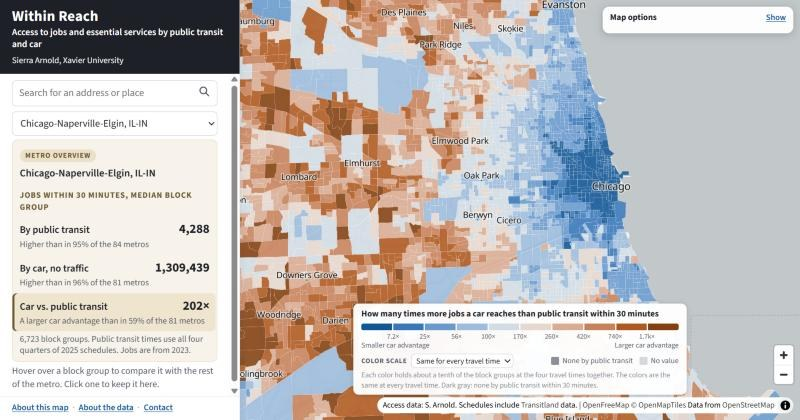
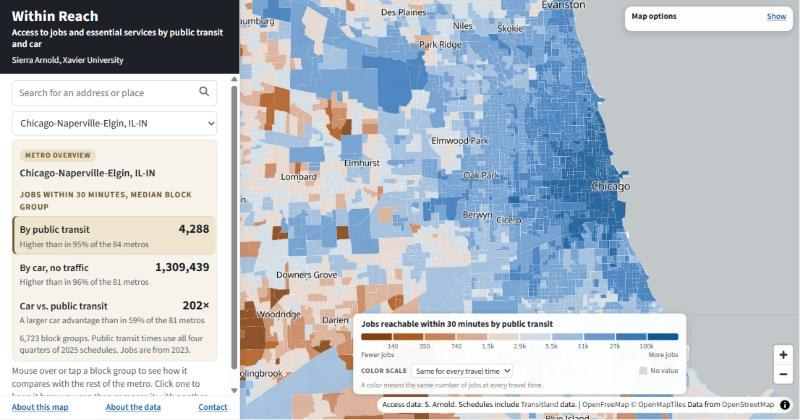
Open on public transit; compare two block groups; a short glossary
- The page opens on jobs by public transit instead of the car vs.
  public transit ratio.
- Compare two block groups side by side: keep one, choose "Compare with
  another block group", then click or search for a second. The link
  carries both.
- About the data has a short glossary and a citation.
- The national circles have a dark outline; the legend notes are
  shorter; the hints say "mouse over or tap".
- A new link-preview image of the new opening view.

diff --git a/app.js b/app.js
@@ -32,10 +32,13 @@
 
   const S = {
     meta: null, ix: null, layers: [JOBS], layer: 'j', tau: 30,
-    bySlug: new Map(), mode: 'r', scale: 'shared', viewBreaks: null,
+    // The page opens on the counts by public transit (Sierra, 2026-11-12: "ok we can make default to transit so
+    // it doesnt jump to the ratio which is confusion"; until then it opened on car vs. public transit).
+    bySlug: new Map(), mode: 't', scale: 'shared', viewBreaks: null,
     loaded: new Map(), pending: new Map(), features: [], index: new Map(), tick: 0,
     hover: null, hoverProps: null, pinned: null, pinnedProps: null, hoverMetro: null,
     hold: null, onMap: false, filter: { iq: 0, zv: 0 },
+    cmpId: null, cmpProps: null, picking: false, pendingPin: null, pendingCmp: null,   // comparing two block groups
   };
 
   const $ = (sel) => document.querySelector(sel);
@@ -187,18 +190,19 @@
     });
     return out;
   }
-  const HASH_ORDER = ['view', 'layer', 'mode', 'time', 'colors', 'income', 'car', 'bg'];
+  const HASH_ORDER = ['view', 'layer', 'mode', 'time', 'colors', 'income', 'car', 'bg', 'vs'];
   function writeHash() {
     if (!S.ix) return;
     const h = readHash();
     const set = (key, val, def) => { if (val === def || val === null || val === undefined) delete h[key]; else h[key] = String(val); };
     set('layer', S.layer, 'j');
-    set('mode', S.mode, 'r');
+    set('mode', S.mode, 't');
     set('time', S.tau, S.ix.tau_default);
     set('colors', S.scale, 'shared');
     set('income', S.filter.iq, 0);
     set('car', S.filter.zv, 0);
     set('bg', S.pinnedProps ? S.pinnedProps.g : null, null);
+    set('vs', S.cmpProps ? S.cmpProps.g : null, null);
     const rank = (key) => (HASH_ORDER.includes(key) ? HASH_ORDER.indexOf(key) : 99);
     const str = Object.keys(h).sort((a, b) => rank(a) - rank(b)).map((key) => `${key}=${h[key]}`).join('&');
     history.replaceState(history.state, '', `${location.pathname}${location.search}${str ? `#${str}` : ''}`);
@@ -212,6 +216,7 @@
     if ([1, 2, 3, 4].includes(Number(h.income))) { S.filter.iq = Number(h.income); $('#f-income').value = h.income; }
     if ([10, 20, 30, 40].includes(Number(h.car))) { S.filter.zv = Number(h.car); $('#f-car').value = h.car; }
     if (/^\d{12}$/.test(h.bg || '')) S.pendingPin = h.bg;
+    if (/^\d{12}$/.test(h.vs || '') && h.vs !== h.bg) S.pendingCmp = h.vs;
     document.querySelectorAll('[data-layer]').forEach((x) => x.setAttribute('aria-pressed', String(x.dataset.layer === S.layer)));
     $('#mode-select').value = S.mode;
     $('#f-income').classList.toggle('active', S.filter.iq > 0);
@@ -257,22 +262,21 @@
     const cols = classColors();
     const n = cols.length;
     const zero = ((L.zero || {})[scaleKey()] || {})[S.mode];   // none is its own class (build_layer4_times.py)
-    const over = shared ? 'at the four travel times together' : `in all ${S.meta.counts.metros_mapped} metros`;
+    // Short notes, in plain words (2026-11-12); About the data explains the classes.
     let note;
     if (viewOn) {
-      note = S.viewBreaks ? 'Each color holds about a tenth of the block groups on screen.'
-        : 'Zoom in to a metro to rescale the colors to the screen.';
+      note = S.viewBreaks ? 'Colors fit to the block groups on screen.' : 'Zoom in to a metro to fit the colors to the screen.';
+    } else if (shared) {
+      note = S.mode === 'r' ? 'A color means the same car advantage at every travel time.'
+        : `A color means the same number of ${L.noun} at every travel time.`;
+      if (zero) note = `The first color is none. ${note}`;
     } else if (zero) {
-      note = breaks().length === 1
-        ? `The first color is none within ${S.tau} minutes, the second one or more.`
-        : `The first color is none within ${S.tau} minutes; the others split the rest into groups of about equal size.`;
-    } else if (S.mode === 'r' && !jobs) {
-      note = `Each color holds about a tenth of the block groups that reach at least one by public transit, ${over}.`;
+      note = breaks().length === 1 ? 'The first color is none, the second one or more.'
+        : 'The first color is none; the others split the rest into groups of equal size.';
     } else {
-      note = `Each color holds about a tenth of the block groups ${over}.`;
+      note = `Colors fit to ${S.tau} minutes: each holds about a tenth of the block groups.`;
     }
-    if (shared) note += ' The colors are the same at every travel time.';
-    if (S.mode === 'r') note += ` Dark gray: none by public transit within ${S.tau} minutes.`;
+    if (S.mode === 'r') note += ' Dark gray: none by public transit.';
     if (filterOn()) note += ' Block groups outside the filter are faded.';
     const [low, high] = ends(S.mode);
     $('#legend').innerHTML = `
@@ -395,6 +399,9 @@
         <div class="kicker">${esc(m.name)}</div>
         ${filterOn() && !matches(p) ? '<div class="out-note">Outside the filter</div>' : ''}
         ${isPinned ? '<button type="button" class="unpin" aria-label="Clear the selected block group">&times;</button>' : ''}
+        ${isPinned ? (S.picking
+          ? '<div class="cmp-note">Now click another block group, or search for one, to compare. <button type="button" class="link cmp-cancel">Cancel</button></div>'
+          : '<button type="button" class="link cmp-start">Compare with another block group</button>') : ''}
       </div>
       <div class="section-title">${L.label} within ${S.tau} minutes</div>
       ${jobsRow('t', 'By public transit', t, p[k('tp')], inMetro, 'No public transit value for this block group.')}
@@ -431,7 +438,7 @@
   function summaryHTML() {
     if (!S.meta || !S.ix) return '';
     const m = S.hoverMetro || metroAtCenter();
-    if (!m) return '<p class="hint">Choose a metro or search for an address, then hover over a neighborhood.</p>';
+    if (!m) return '<p class="hint">Choose a metro or search for an address, then mouse over or tap a neighborhood.</p>';
     if (!m.mapped) {
       return `<div class="card card-metro">
         <div class="card-head"><span class="level level-metro">Metro overview</span>
@@ -479,12 +486,123 @@
       <p class="facts">${fmt.format(m.n_bg)} block groups. Public transit times use ${q === 4 ? 'all four' : q} quarter${q === 1 ? '' : 's'}
       of ${m.year} schedules. ${asOf}</p>
     </div>
-    <p class="hint">Hover over a block group to compare it with the rest of the metro. Click one to keep it here.</p>`;
+    <p class="hint">Mouse over or tap a block group to see how it compares with the rest of the metro. Click one to keep it
+    here; you can then compare it with another.</p>`;
+  }
+
+  // ---------- comparing two block groups (Sierra, 2026-11-12: "yes add comparisons") ----------
+  // A is the kept block group; "Compare with another block group" makes the next click (or search) B.
+  function placeName(p) {
+    const g = String(p.g);
+    return `Block group ${g.slice(11)}, tract ${tractLabel(g.slice(5, 11))}, ${esc(S.meta.states[g.slice(0, 2)] || '')}`;
+  }
+  function compareHTML(a, b) {
+    const L = lay();
+    const jobs = isJobs();
+    const metroOf = (p) => esc(shortName((S.bySlug.get(p.m) || { name: '' }).name));
+    const num = (v) => (has(v) ? fmt.format(v) : '–');
+    // each block group's rank in its own metro; none for a zero (the value says it), "lowest" at the bottom
+    const rank = (pct, v) => (!has(pct) || v === 0 ? '' : pct === 0 ? 'lowest in its metro' : `higher than ${pct}%`);
+    const ratio = (p) => {
+      const r = p[k('r')];
+      if (has(r)) return `${ratioText(r)}&times;`;
+      return p[k('t')] === 0 && has(p[k('c')]) && p[k('c')] > 0 ? 'None by public transit' : '–';
+    };
+    const near = (p) => {
+      const n = p[k('n')];
+      if (!has(n)) return 'None within 90 minutes';
+      return n === 0 ? 'In the block group' : `${n} minutes`;
+    };
+    const money = (v) => (has(v) ? `$${fmt.format(v)}` : '–');
+    const share = (v) => (has(v) ? `${trimZero(v.toFixed(1))}%` : '–');
+    const row = (label, va, vb, sa = '', sb = '', sel = false) => `<div class="cmp-row${sel ? ' selected' : ''}">
+        <span class="cmp-label">${label}</span>
+        <span class="cmp-v">${va}${sa ? `<small>${sa}</small>` : ''}</span>
+        <span class="cmp-v">${vb}${sb ? `<small>${sb}</small>` : ''}</span></div>`;
+    const head = (title) => `<div class="cmp-row cmp-head"><span class="section-title">${title}</span>
+        <span class="ab">A</span><span class="ab">B</span></div>`;
+    return `<div class="card card-bg card-cmp">
+      <div class="card-head">
+        <span class="level level-bg">Comparing two block groups</span>
+        <button type="button" class="unpin" aria-label="Clear both block groups">&times;</button>
+        <div class="cmp-who"><span class="ab">A</span><div><div class="place">${placeName(a)}</div>
+          <div class="kicker">${metroOf(a)} metro</div></div></div>
+        <div class="cmp-who"><span class="ab">B</span><div><div class="place">${placeName(b)}</div>
+          <div class="kicker">${metroOf(b)} metro</div></div></div>
+        <button type="button" class="link cmp-stop">Stop comparing</button>
+      </div>
+      ${head(`${L.label} within ${S.tau} minutes`)}
+      ${row('By public transit', num(a[k('t')]), num(b[k('t')]), rank(a[k('tp')], a[k('t')]), rank(b[k('tp')], b[k('t')]), S.mode === 't')}
+      ${row('By car, no traffic', num(a[k('c')]), num(b[k('c')]), rank(a[k('cp')], a[k('c')]), rank(b[k('cp')], b[k('c')]), S.mode === 'c')}
+      ${row('Car vs. public transit', ratio(a), ratio(b), '', '', S.mode === 'r')}
+      ${jobs ? '' : row(`Nearest ${L.one} by public transit`, near(a), near(b))}
+      ${head('Neighborhood, 2018–22')}
+      ${row('Population', num(a.pop), num(b.pop))}
+      ${row('People per square mile', num(a.dens), num(b.dens))}
+      ${row('Median household income', money(a.inc), money(b.inc))}
+      ${row('Share of households without a car', share(a.zv), share(b.zv))}
+      <p class="facts">"Higher than" compares each block group with the rest of its own metro.</p>
+    </div>`;
   }
 
   function renderCard() {
+    if (S.pinnedProps && S.cmpProps) { $('#card').innerHTML = compareHTML(S.pinnedProps, S.cmpProps); return; }
     const p = S.hoverProps || S.pinnedProps;
-    $('#card').innerHTML = p ? blockGroupHTML(p, !S.hoverProps && !!S.pinnedProps) : summaryHTML();
+    // over the kept block group itself, the card stays the kept one (with its buttons)
+    const isPinned = !!S.pinnedProps && (!S.hoverProps || S.hoverProps.g === S.pinnedProps.g);
+    $('#card').innerHTML = p ? blockGroupHTML(p, isPinned) : summaryHTML();
+  }
+
+  // The A and B tags on the map, at the middle of each block group's outline, shown while comparing.
+  function centerOf(geom) {
+    let w = 180; let s = 90; let e = -180; let n = -90;
+    const walk = (c) => {
+      if (typeof c[0] === 'number') { w = Math.min(w, c[0]); e = Math.max(e, c[0]); s = Math.min(s, c[1]); n = Math.max(n, c[1]); }
+      else c.forEach(walk);
+    };
+    walk(geom.coordinates);
+    return [(w + e) / 2, (s + n) / 2];
+  }
+  const tags = { A: null, B: null };
+  function setTag(letter, props) {
+    if (tags[letter]) { tags[letter].remove(); tags[letter] = null; }
+    if (!props) return;
+    const id = S.index.get(props.g);
+    const f = id === undefined ? null : S.features[id];
+    if (!f) return;
+    const el = document.createElement('div');
+    el.className = 'ab-tag';
+    el.textContent = letter;
+    tags[letter] = new maplibregl.Marker({ element: el, anchor: 'center' }).setLngLat(centerOf(f.geometry)).addTo(map);
+  }
+  function setCompare(id, props) {
+    if (S.cmpId !== null && S.cmpId !== undefined) map.setFeatureState({ source: 'bgs', id: S.cmpId }, { cmp: false });
+    S.cmpId = id;
+    S.cmpProps = { ...props };
+    S.picking = false;
+    map.setFeatureState({ source: 'bgs', id }, { cmp: true });
+    setTag('A', S.pinnedProps);
+    setTag('B', S.cmpProps);
+    renderCard();
+    writeHash();
+  }
+  function clearCompare(render = true) {
+    if (S.cmpId !== null && S.cmpId !== undefined) map.setFeatureState({ source: 'bgs', id: S.cmpId }, { cmp: false });
+    S.cmpId = null;
+    S.cmpProps = null;
+    S.picking = false;
+    setTag('A', null);
+    setTag('B', null);
+    if (render) { renderCard(); writeHash(); }
+  }
+  // A click (or a search) keeps a block group; while comparing, or after "Compare with another block group", it
+  // becomes B instead.
+  function choose(id, props) {
+    if (S.pinnedProps && (S.picking || S.cmpProps)) {
+      if (props.g !== S.pinnedProps.g) setCompare(id, props);
+    } else {
+      pin(id, props);
+    }
   }
 
   function pin(id, props) {
@@ -497,6 +615,7 @@
   }
 
   function unpin() {
+    clearCompare(false);
     if (S.pinned !== null) map.setFeatureState({ source: 'bgs', id: S.pinned }, { pinned: false });
     S.pinned = null;
     S.pinnedProps = null;
@@ -526,6 +645,14 @@
       S.pendingPin = null;
       pin(id, S.features[id].properties);
     }
+    S.cmpId = S.cmpProps && S.index.has(S.cmpProps.g) ? S.index.get(S.cmpProps.g) : null;
+    if (S.cmpId !== null) map.setFeatureState({ source: 'bgs', id: S.cmpId }, { cmp: true });
+    if (S.pendingCmp && S.pinnedProps && S.index.has(S.pendingCmp)) {   // the second block group of a shared link
+      const id = S.index.get(S.pendingCmp);
+      S.pendingCmp = null;
+      setCompare(id, S.features[id].properties);
+    }
+    if (S.cmpProps) { setTag('A', S.pinnedProps); setTag('B', S.cmpProps); }
     if (S.scale === 'view') map.once('idle', updateViewBreaks);
   }
 
@@ -726,7 +853,12 @@
     else { S.viewBreaks = null; applyColors(); }
   });
 
-  $('#card').addEventListener('click', (e) => { if (e.target.closest('.unpin')) unpin(); });
+  $('#card').addEventListener('click', (e) => {
+    if (e.target.closest('.unpin')) unpin();
+    else if (e.target.closest('.cmp-start')) { S.picking = true; renderCard(); }
+    else if (e.target.closest('.cmp-cancel')) { S.picking = false; renderCard(); }
+    else if (e.target.closest('.cmp-stop')) clearCompare();
+  });
 
   // The map options float over the map (Sierra, 2026-11-12: "like the opp atlas has the toggles floating") and
   // can be hidden; on phones they move into the panel, above the card.
@@ -777,7 +909,7 @@
       map.flyTo({ center: [lng, lat], zoom: 13.5 });
       map.once('idle', () => {
         const fs = map.queryRenderedFeatures(map.project([lng, lat]), { layers: ['bg-fill'] });
-        if (fs.length) pin(fs[0].id, fs[0].properties);
+        if (fs.length) choose(fs[0].id, fs[0].properties);
         else setStatus('No block group at that spot.');
       });
     } catch (err) {
@@ -842,7 +974,8 @@
     map.addLayer({ id: 'bg-focus', type: 'line', source: 'bgs', minzoom: BG_FROM,
       paint: { 'line-color': '#141418',
         'line-width': ['case', ['boolean', ['feature-state', 'hover'], false], 2.5,
-          ['boolean', ['feature-state', 'pinned'], false], 2.5, 0] } });
+          ['boolean', ['feature-state', 'pinned'], false], 2.5,
+          ['boolean', ['feature-state', 'cmp'], false], 2.5, 0] } });
 
     // One circle per mapped metro, colored by its median block group; metros not on the map get none.
     map.addSource('metros', { type: 'geojson', data: dotData() });
@@ -851,8 +984,8 @@
         'circle-radius': ['interpolate', ['linear'], ['zoom'],
           3, ['+', 3, ['*', 6, ['get', 'size']]], 7, ['+', 5, ['*', 10, ['get', 'size']]]],
         'circle-color': dotColor(),
-        'circle-stroke-color': '#ffffff',
-        'circle-stroke-width': 1.5,
+        'circle-stroke-color': '#2f3440',   // dark, so that the pale middle colors stand out on the light map
+        'circle-stroke-width': 1.25,
         'circle-opacity': ['interpolate', ['linear'], ['zoom'], 6.5, 0.95, DOTS_UNTIL, 0],
         'circle-stroke-opacity': ['interpolate', ['linear'], ['zoom'], 6.5, 1, DOTS_UNTIL, 0],
       } });
@@ -928,11 +1061,16 @@
       const f = e.features && e.features[0];
       if (!f || overDot(e.point)) return;
       S.hold = null;
-      pin(f.id, f.properties);
+      choose(f.id, f.properties);
       // Zoom in a little when the map is zoomed out (Sierra, 2026-11-12), keeping the clicked spot under the pointer.
       if (map.getZoom() < CLICK_ZOOM - 0.5) map.easeTo({ zoom: CLICK_ZOOM, around: e.lngLat, duration: 600 });
     });
 
+    // The A and B tags hide with the block groups when the map is zoomed out.
+    map.on('zoom', () => {
+      const show = map.getZoom() >= BG_FROM;
+      Object.values(tags).forEach((t) => { if (t) t.getElement().style.display = show ? '' : 'none'; });
+    });
     map.on('moveend', () => {
       ensureMetros();
       syncMetroSelect();

diff --git a/index.html b/index.html
@@ -13,7 +13,7 @@
   <meta property="og:image" content="https://smh172.github.io/transit-access-map/preview.jpg">
   <meta property="og:image:width" content="800">
   <meta property="og:image:height" content="420">
-  <meta property="og:image:alt" content="A map of Chicago's block groups colored by how many times more jobs a car reaches than public transit within 30 minutes">
+  <meta property="og:image:alt" content="A map of Chicago's block groups colored by how many jobs their residents can reach within 30 minutes by public transit">
   <meta name="twitter:card" content="summary_large_image">
   <link rel="preconnect" href="https://fonts.googleapis.com">
   <link rel="preconnect" href="https://fonts.gstatic.com" crossorigin>
@@ -75,9 +75,9 @@
             <div class="modes">
               <label class="section-title" for="mode-select">Map shows</label>
               <select id="mode-select" autocomplete="off">
-                <option value="t">By public transit</option>
+                <option value="t" selected>By public transit</option>
                 <option value="c">By car</option>
-                <option value="r" selected>Car vs. public transit</option>
+                <option value="r">Car vs. public transit</option>
               </select>
             </div>
 
@@ -186,11 +186,19 @@
       <li><strong>Community colleges:</strong> public two-year college campuses (NCES).</li>
     </ul>
     <h3>Neighborhood values</h3>
-    <p>Population, median household income and the share of households without a car come from the American Community Survey, 2018–22. The income filter splits each metro's block groups into four equal groups by income. The data have no census values for Hartford, Jacksonville, Palm Bay or Riverside.</p>
+    <p>Population, median household income and the share of households without a car come from the American Community Survey, 2018–22. The income filter splits each metro's block groups into four groups of equal size by median household income. The data have no census values for Hartford, Jacksonville, Palm Bay or Riverside.</p>
+    <h3>Glossary</h3>
+    <dl class="about-glossary">
+      <dt>Block group</dt><dd>A Census Bureau area of about 600 to 3,000 people, the smallest the map shows; the map also calls it a neighborhood.</dd>
+      <dt>Median block group</dt><dd>The middle block group of a metro: half reach more and half reach less. The metro overview uses it to describe the metro.</dd>
+      <dt>Higher than X%</dt><dd>For a block group, the share of its metro's block groups with a lower value; in the metro overview, the share of the mapped metros with a lower median.</dd>
+    </dl>
     <h3>Coverage</h3>
     <p id="about-coverage"></p>
     <h3>Source</h3>
     <p>Sierra Arnold, <a href="https://github.com/smh172/evolution-transit-access/blob/main/evolution_transit_access.pdf" target="_blank" rel="noopener">"The Evolution of Transit Access to Jobs in American Cities"</a> and <a href="https://github.com/smh172/transit-access-essential-services/blob/main/transit_access_essential_services.pdf" target="_blank" rel="noopener">"The Evolution of Transit Access to Essential Services"</a>, which describe the sources and methods in full.</p>
+    <h3>How to cite</h3>
+    <p>Arnold, Sierra. 2026. <i>Within Reach: Access to Jobs and Essential Services by Public Transit and Car.</i> https://smh172.github.io/transit-access-map/</p>
     <h3>Credits</h3>
     <p class="small">Public transit schedules include data from <a href="https://www.transit.land/terms" target="_blank" rel="noopener">Transitland</a>, the Mobility Database and the Southeastern Pennsylvania Transportation Authority. Street network data &copy; <a href="https://www.openstreetmap.org/copyright" target="_blank" rel="noopener">OpenStreetMap contributors</a>, available under the Open Database License. Jobs from the U.S. Census Bureau, LEHD Origin-Destination Employment Statistics (LODES 8). Population, income and vehicles from the Census Bureau's American Community Survey, 2018–22. Services from USDA (SNAP retailers), FDIC (Summary of Deposits), CMS (Provider of Services), IMLS (Public Libraries Survey) and NCES (IPEDS). Boundaries from the Census Bureau's 2020 cartographic boundary files. Routing was run on resources of the Ohio Supercomputer Center. Basemap by OpenFreeMap and OpenMapTiles. Address search by Nominatim.</p>
   </dialog>

diff --git a/style.css b/style.css
@@ -298,4 +298,28 @@ dialog#contact { width: min(440px, calc(100vw - 32px)); }
   .sheet-links { justify-content: center; }
 }
 dialog#about .about-list { margin: 0 0 6px; padding-left: 18px; }
+dialog#about .about-glossary { margin: 0 0 6px; }
+dialog#about .about-glossary dt { font-weight: 700; margin-top: 6px; }
+dialog#about .about-glossary dd { margin: 0 0 0 14px; }
+/* ---------- comparing two block groups ---------- */
+.cmp-start, .cmp-stop { display: inline-block; margin-top: 6px; font-size: 13px; }
+.cmp-note { margin-top: 6px; padding: 6px 8px; border-radius: 6px; font-size: 13px;
+  background: color-mix(in srgb, var(--accent) 8%, #fff); }
+.cmp-who { display: flex; align-items: flex-start; gap: 8px; margin-top: 6px; }
+.cmp-who .place { padding-right: 0; font-size: 14.5px; }
+.ab { display: inline-grid; place-items: center; width: 20px; height: 20px; border-radius: 50%; flex: none;
+  background: var(--brand); color: #fff; font-size: 11.5px; font-weight: 700; }
+.cmp-row { display: grid; grid-template-columns: 1fr 80px 80px; gap: 6px; align-items: baseline; padding: 5px 4px;
+  border-top: 1px solid var(--line); }
+.cmp-row.selected { background: color-mix(in srgb, var(--accent) 7%, #fff); }
+.cmp-head { border-top: 0; padding-top: 10px; align-items: end; }
+.cmp-head .section-title { margin: 0; }
+.cmp-head .ab { justify-self: end; }
+.cmp-label { font-size: 13.5px; }
+.cmp-v { text-align: right; font-size: 14px; font-weight: 700; font-variant-numeric: tabular-nums; }
+.cmp-v small { display: block; font-size: 11px; font-weight: 400; color: var(--muted); }
+/* the A and B tags on the map */
+.ab-tag { display: grid; place-items: center; width: 22px; height: 22px; border-radius: 50%; pointer-events: none;
+  background: var(--brand); color: #fff; font: 700 12px/1 var(--font); border: 2px solid #fff;
+  box-shadow: 0 1px 4px rgba(20, 22, 28, 0.4); }
 dialog#about .about-list li { margin: 2px 0; }
